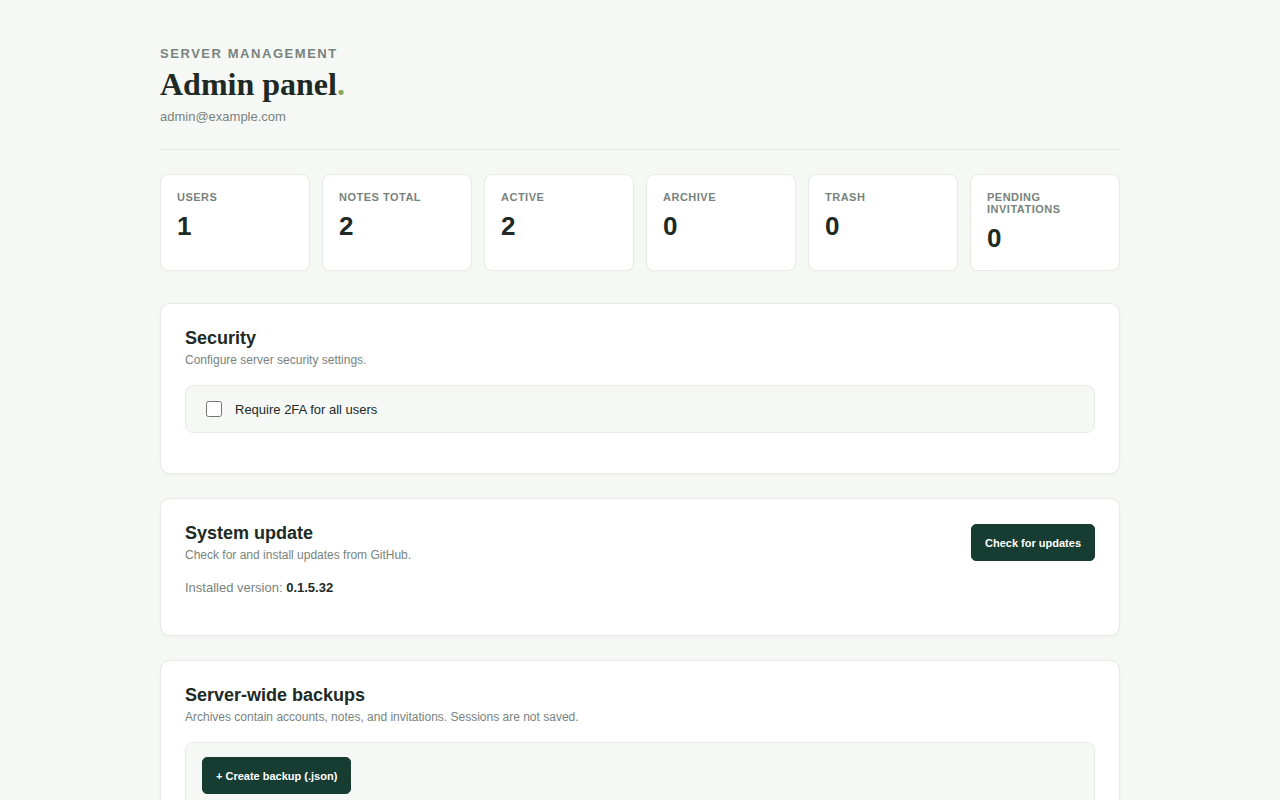
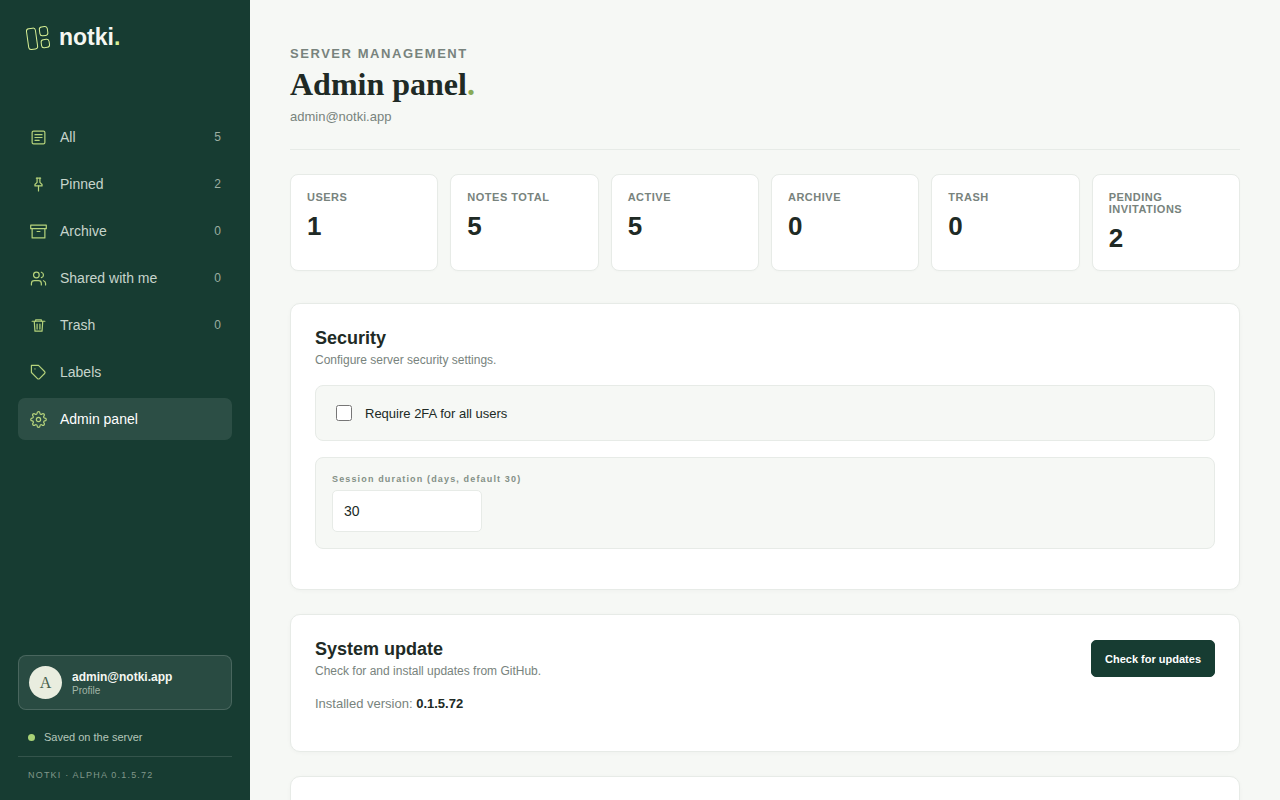
Bump version to 0.1.5.72 and update README in English with new screenshots

diff --git a/index.html b/index.html
@@ -106,7 +106,7 @@
           <span class="storage-dot"></span>
           <span data-i18n="nav.storage">Saved on the server</span>
         </div>
-        <span class="sidebar-version">NOTKI · ALPHA 0.1.5.71</span>
+        <span class="sidebar-version">NOTKI · ALPHA 0.1.5.72</span>
       </div>
     </aside>
 
@@ -192,7 +192,7 @@
         <div><h2 data-i18n="admin.update.title">System update</h2><p data-i18n="admin.update.description">Check for and install updates from GitHub.</p></div>
         <button class="button-primary" id="check-update" type="button" data-i18n="admin.update.check">Check for updates</button>
       </header>
-      <p class="admin-version-info"><span data-i18n="admin.update.currentVersion">Installed version:</span> <strong>0.1.5.71</strong></p>
+      <p class="admin-version-info"><span data-i18n="admin.update.currentVersion">Installed version:</span> <strong>0.1.5.72</strong></p>
       <p class="admin-message" id="update-message" role="status" hidden></p>
       <div id="update-result" class="admin-update-box" hidden>
         <p><span data-i18n="admin.update.available">An update is available! Latest version:</span> <strong id="update-latest-version"></strong></p>

diff --git a/tests/test_server.py b/tests/test_server.py
@@ -532,7 +532,7 @@ class ServerFlowTests(unittest.TestCase):
             self.assertEqual(res.get('latestVersion'), '0.1.6.0')
 
         # Test check update with same tag
-        tags_response_same = json.dumps([{'name': '0.1.5.71', 'tarball_url': 'https://api.github.com/repos/shirou93/Notki/tarball/v0.1.5.71'}]).encode('utf-8')
+        tags_response_same = json.dumps([{'name': '0.1.5.72', 'tarball_url': 'https://api.github.com/repos/shirou93/Notki/tarball/v0.1.5.72'}]).encode('utf-8')
         with unittest.mock.patch('urllib.request.urlopen') as mock_urlopen:
             mock_cm = unittest.mock.MagicMock()
             mock_cm.__enter__.return_value.read.return_value = tags_response_same
@@ -556,7 +556,7 @@ class ServerFlowTests(unittest.TestCase):
             mock_urlopen.return_value = mock_cm
 
             status, res = self.request(self.admin, 'POST', '/api/admin/update/perform', {
-                'tarballUrl': 'https://api.github.com/repos/shirou93/Notki/tarball/v0.1.5.71'
+                'tarballUrl': 'https://api.github.com/repos/shirou93/Notki/tarball/v0.1.5.72'
             })
             self.assertEqual(status, 400)
             self.assertEqual(res['error'], 'No newer version available.')

diff --git a/bump_version.py b/bump_version.py
@@ -4,7 +4,7 @@ for file in files:
     try:
         with open(file, "r") as f:
             content = f.read()
-        content = content.replace("0.1.5.70", "0.1.5.71")
+        content = content.replace("0.1.5.71", "0.1.5.72")
         with open(file, "w") as f:
             f.write(content)
     except FileNotFoundError:

diff --git a/server.py b/server.py
@@ -29,7 +29,7 @@ import qr
 
 
 ROOT = Path(__file__).resolve().parent
-VERSION = '0.1.5.71'
+VERSION = '0.1.5.72'
 DB_PATH = Path(os.environ.get('NOTKI_DB_PATH', ROOT / 'data' / 'notki.sqlite3'))
 SESSION_COOKIE = 'notki_session'
 SESSION_DAYS = 30

diff --git a/README.md b/README.md
@@ -1,103 +1,104 @@
 # Notki
 
-Szybka, lekka i prywatna aplikacja webowa do robienia notatek w przeglądarce, napisana w czystym Pythonie (Python 3.9+) bez jakichkolwiek zewnętrznych zależności z PyPI.
+A fast, lightweight, and private web-based note-taking application written in pure Python (Python 3.9+) with zero external dependencies from PyPI.
 
-![Główny widok notatek](docs/desktop_notes.png)
-
----
-
-## 🚀 Kluczowe funkcje
-
-- 📝 **Tworzenie i edycja notatek**: Formatowanie tekstu (pogrubienie, kursywa, podkreślenie), listy punktowane i numerowane oraz interaktywne listy zadań (checklisty).
-- 🏷 **Etykiety i organizacja**: System etykiet (tagów), przypinanie ważnych notatek, archiwizacja, kosz oraz dostosowywanie kolorów kart dla wygodnej organizacji.
-- 🤝 **Udostępnianie notatek**: Bezpieczne udostępnianie notatek innym użytkownikom serwera w trybie tylko do odczytu lub z prawami do edycji.
-- 📶 **Obsługa offline i synchronizacja**: Praca bez dostępu do sieci dzięki lokalnemu pamiętaniu danych w przeglądarce (`localStorage`) oraz automatycznej i ręcznej synchronizacji po powrocie połączenia.
-- 👤 **Profil użytkownika i avatary**: Personalizacja konta i obsługa własnych avatarów.
-- 🔐 **Zaawansowane bezpieczeństwo**:
-  - Dwuetapowa weryfikacja (2FA) za pomocą aplikacji TOTP oraz kluczy sprzętowych / Passkeys (WebAuthn).
-  - Możliwość wymuszenia 2FA dla wszystkich użytkowników przez administratora.
-- 💾 **Kopie zapasowe JSON**: Tworzenie, pobieranie, przywracanie oraz import pełnych kopii zapasowych serwera w formacie `.json`.
-- ⚙ **Panel Administratora**: Zarządzanie użytkownikami, tworzenie linków zaproszeń (z konfigurowalnym czasem ważności w dniach), statystyki serwera oraz automatyczne aktualizacje bezpośrednio z serwisu GitHub.
-- 🎨 **Motywy i wielojęzyczność (i18n)**: Wsparcie dla motywu jasnego, ciemnego oraz systemowego, a także obsługa wielu języków (polski, angielski, niemiecki, francuski, japoński, koreański, włoski, hiszpański).
+![Main notes view](docs/desktop_notes.png)
 
 ---
 
-## 📱 Zrzuty ekranu
+## 🚀 Key Features
 
-| Widok | Komputer (Desktop) | Telefon (Mobile) |
+- 📝 **Note Creation & Editing**: Rich text formatting (bold, italic, underline), bulleted and numbered lists, plus interactive checklists with progress bars and drag-and-drop handles.
+- 🏷 **Labels & Organization**: Flexible tagging system, pin essential notes, archive inactive items, send unwanted notes to trash, and personalize cards with distinct background colors.
+- 🤝 **Note Sharing**: Securely share notes with other users on your server with read-only or read-write permissions.
+- 📶 **Offline Support & Sync**: Work seamlessly offline thanks to browser `localStorage` caching and automated background synchronization when connectivity is restored.
+- 👤 **User Profiles & Avatars**: Personalize user accounts and upload custom avatars.
+- 🔐 **Advanced Security**:
+  - Two-Factor Authentication (2FA) via TOTP authenticator apps and WebAuthn Passkeys / hardware security keys.
+  - Sliding-window rate limiting on login endpoints to prevent brute-force attacks.
+  - Enforce 2FA server-wide via administrative settings.
+- 💾 **JSON Backups**: Create, download, restore, and import complete server backups in transparent `.json` format.
+- ⚙ **Admin Panel**: Manage user accounts, create invitation links with customizable expiration periods (in days), monitor server statistics, and perform automated updates directly from GitHub.
+- 🎨 **Themes & Multi-Language (i18n)**: Native Light, Dark, and System themes, with built-in support for multiple languages (English, Polish, German, French, Japanese, Korean, Italian, Spanish).
+
+---
+
+## 📱 Screenshots
+
+| View | Desktop | Mobile |
 |---|---|---|
-| **Notatki** | ![Notatki na komputerze](docs/desktop_notes.png) | ![Notatki na telefonie](docs/mobile_notes.png) |
-| **Panel Admina** | ![Panel administratora na komputerze](docs/desktop_admin.png) | ![Panel administratora na telefonie](docs/mobile_admin.png) |
+| **Notes** | ![Notes on Desktop](docs/desktop_notes.png) | ![Notes on Mobile](docs/mobile_notes.png) |
+| **Admin Panel** | ![Admin Panel on Desktop](docs/desktop_admin.png) | ![Admin Panel on Mobile](docs/mobile_admin.png) |
 
 ---
 
-## 🛠 Zalecana instalacja (Docker Compose)
+## 🛠 Recommended Installation (Docker Compose)
 
-Najprostszym i zalecanym sposobem uruchomienia aplikacji Notki jest użycie **Docker Compose**.
+The easiest and recommended way to deploy Notki is using **Docker Compose**.
 
-1. Utwórz katalog i pobierz plik `docker-compose.yml`:
+1. Create a project directory and download `docker-compose.yml`:
    ```bash
    mkdir notki && cd notki
    curl -O https://raw.githubusercontent.com/shirou93/Notki/main/docker-compose.yml
    ```
 
-2. Uruchom kontener w tle:
+2. Start the container in background mode:
    ```bash
    docker compose up -d
    ```
 
-3. Otwórz przeglądarkę pod adresem `http://localhost:8000/setup` i przejdź pierwszą konfigurację konta administratora.
+3. Open your browser at `http://localhost:8000/setup` and complete the initial administrator setup.
 
 ---
 
-## 💻 Alternatywne metody instalacji
+## 💻 Alternative Installation Methods
 
-### 1. Bezpośrednie uruchomienie (Python 3.9+)
+### 1. Direct Execution (Python 3.9+)
 
-Aplikacja korzysta wyłącznie ze biblioteki standardowej Pythona i nie wymaga instalowania zewnętrznych pakietów przez `pip`.
+Notki relies strictly on the Python standard library and requires no `pip` packages.
 
 ```bash
 git clone https://github.com/shirou93/Notki.git
 cd Notki
 python3 server.py
 ```
-Aplikacja będzie dostępna pod adresem `http://localhost:8000`.
+The application will be accessible at `http://localhost:8000`.
 
-### 2. Instalacja na serwerze (Linux Systemd)
+### 2. Native Linux Installation (Systemd)
 
-Na serwerze Linux (Debian, Ubuntu, Arch, Fedora, Alpine itp.) możesz skorzystać z automatycznego skryptu instalacyjnego:
+On Linux distributions (Debian, Ubuntu, Arch, Fedora, Alpine, etc.), you can run the automated installer script:
 
 ```bash
 sudo ./install.sh
 ```
-Skrypt utworzy dedykowanego użytkownika systemowego `notki`, zainstaluje aplikację w `/opt/notki` oraz skonfiguruje i uruchomi usługę Systemd.
+The script creates a dedicated system user `notki`, installs the application into `/opt/notki`, and configures a systemd service.
 
 ---
 
-## 🛡 Kopie zapasowe (JSON Backup)
+## 🛡 Server Backups (JSON Backup)
 
-W Panelu Administratora w sekcji **Kopie Zapasowe Serwera** możesz zarządzać kopiami danych:
-- Kopie zapasowe obejmują konta użytkowników, notatki, etykiety, zaproszenia i ustawienia serwera.
-- Pliki zapisywane są w czytelnym formacie `.json` z unikalnym znacznikiem czasu (np. `notki-backup-20261014-120000Z-a1b2c3d4.json`).
-- Kopie zapasowe można w dowolnym momencie pobrać, przywrócić z listy serwera, wgrać z dysku lokalnego lub zaimportować podczas wstępnej konfiguracji na nowym serwerze.
+From the **Admin Panel** under **Server Backups**, you can easily manage server data:
+- Backups include all user accounts, notes, labels, invitations, and system settings.
+- Files are saved in human-readable `.json` format with timestamped filenames (e.g., `notki-backup-20261014-120000Z-a1b2c3d4.json`).
+- You can download backups, restore existing archives on the server, upload `.json` backups from your local device, or import a backup during initial first-run setup on a new server.
 
 ---
 
-## ⚙ Zmienne środowiskowe
+## ⚙ Environment Variables
 
-| Zmienna | Opis | Domyślna wartość |
+| Variable | Description | Default Value |
 |---|---|---|
-| `NOTKI_HOST` | Adres IP, na którym nasłuchuje serwer | `127.0.0.1` (`0.0.0.0` w Dockerze) |
-| `NOTKI_PORT` / `NOTKI_HTTP_PORT` | Port serwera HTTP | `8000` |
-| `NOTKI_DB_PATH` | Ścieżka do pliku bazy danych SQLite3 | `./data/notki.sqlite3` |
-| `NOTKI_BACKUP_DIR` | Ścieżka do katalogu z kopiami zapasowymi JSON | `./data/backups` |
-| `NOTKI_ALLOW_REMOTE_SETUP` | Zezwolenie na pierwszą konfigurację z zdalnego adresu IP | `0` (`1` w Dockerze) |
+| `NOTKI_HOST` | Network interface IP for server binding | `127.0.0.1` (`0.0.0.0` in Docker) |
+| `NOTKI_PORT` / `NOTKI_HTTP_PORT` | HTTP server port | `8000` |
+| `NOTKI_DB_PATH` | Path to the SQLite3 database file | `./data/notki.sqlite3` |
+| `NOTKI_BACKUP_DIR` | Directory path for storing JSON backups | `./data/backups` |
+| `NOTKI_ALLOW_REMOTE_SETUP` | Allow first-time setup from remote IP addresses | `0` (`1` in Docker) |
 
-> **Odwrotne proxy i HTTPS (Cloudflare Tunnel, Nginx, Caddy, Traefik, NPM):**
-> Notki działają jako natywny serwer HTTP i automatycznie wykrywają nagłówki przekazywania HTTPS (`X-Forwarded-Proto`, `X-Forwarded-Host`) z Twojego odwrotnego proxy. Brak konieczności dodatkowej konfiguracji SSL wewnątrz aplikacji.
+> **Reverse Proxies & HTTPS (Cloudflare Tunnel, Nginx, Caddy, Traefik, NPM):**
+> Notki operates natively as an HTTP server and automatically detects reverse proxy forwarding headers (`X-Forwarded-Proto`, `X-Forwarded-Host`, `X-Forwarded-Ssl`). It handles secure cookie flags and generates valid HTTPS invite links without extra SSL configuration inside the app.
 
 ---
 
-## 📜 Licencja
+## 📜 License
 
-Projekt open-source udostępniany na licencji MIT.
+This open-source project is distributed under the terms of the MIT License.
